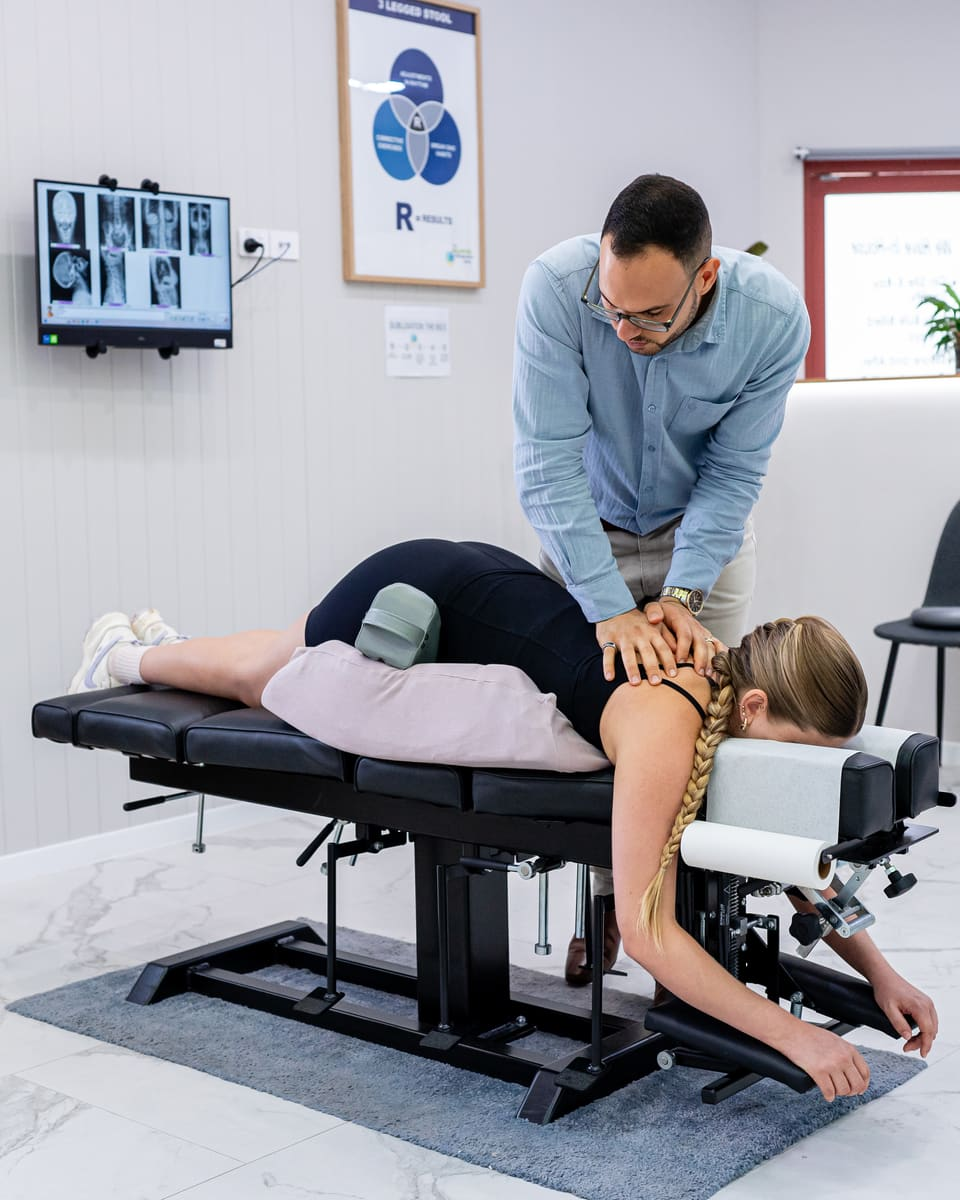
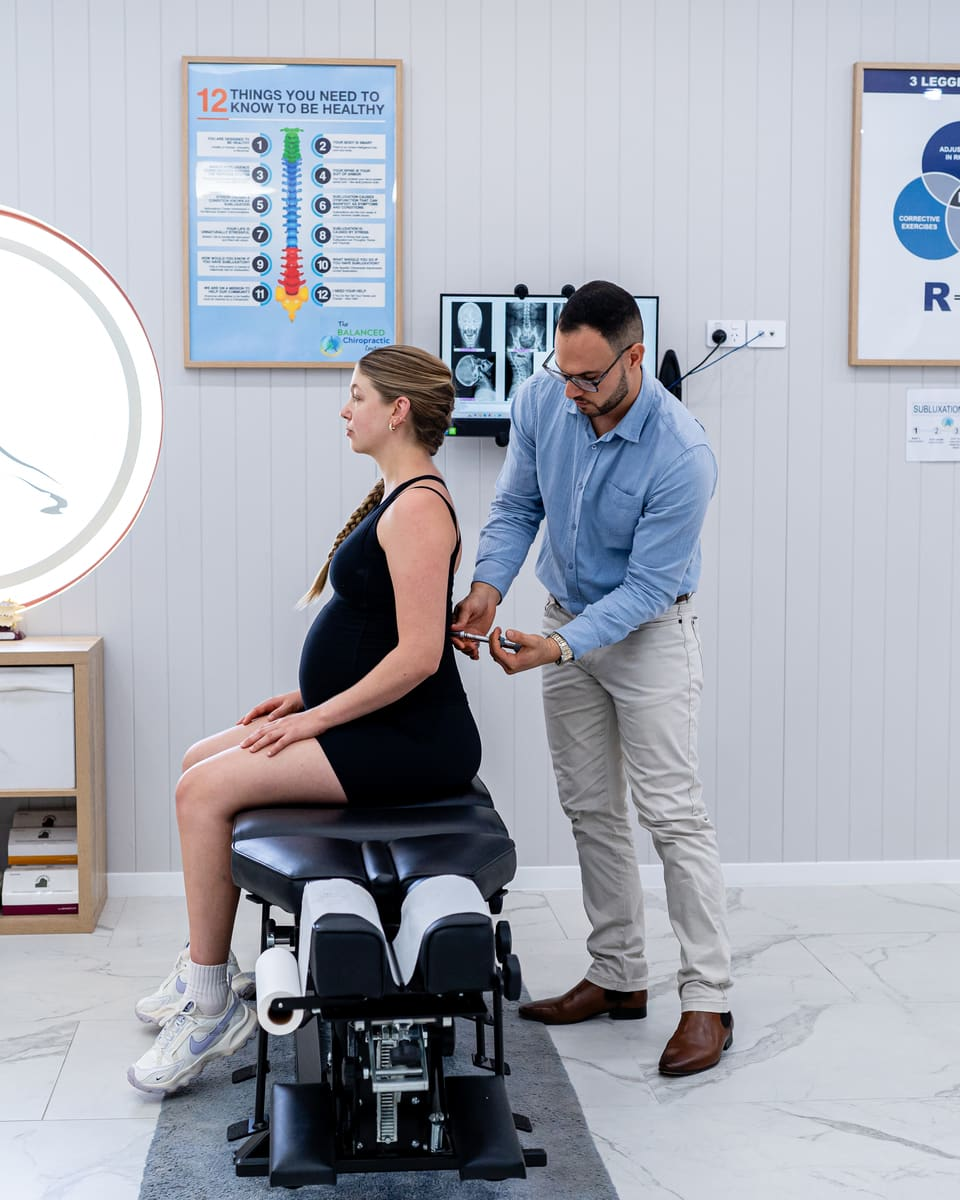
Use new shoot photos with consenting model and staff (#7)
New Patients hero, Visit 1/2 cards, X-ray page hero, Poor Posture and
Who We Help pregnancy section.

Claude-Session: https://claude.ai/code/session_01MpMfcfH3nDEbZ5aq2YVQbP

diff --git a/src/config/conditions.ts b/src/config/conditions.ts
@@ -463,8 +463,8 @@ export const conditions: Condition[] = [
       'Care focused on restoring movement',
       'Corrective exercises and workstation advice, with progress re-measured every 12 visits',
     ],
-    photo: '/images/thermal-scanning.jpg',
-    photoAlt: 'Dr Josh performing a postural and thermography assessment',
+    photo: '/images/posture-check.jpg',
+    photoAlt: 'Dr Josh checking a patient’s posture and shoulder alignment',
     faqs: [
       { q: 'How long does posture correction take?', a: 'Posture patterns develop over years, so meaningful change takes consistent care over months. We re-measure regularly so you can track progress.' },
     ],
